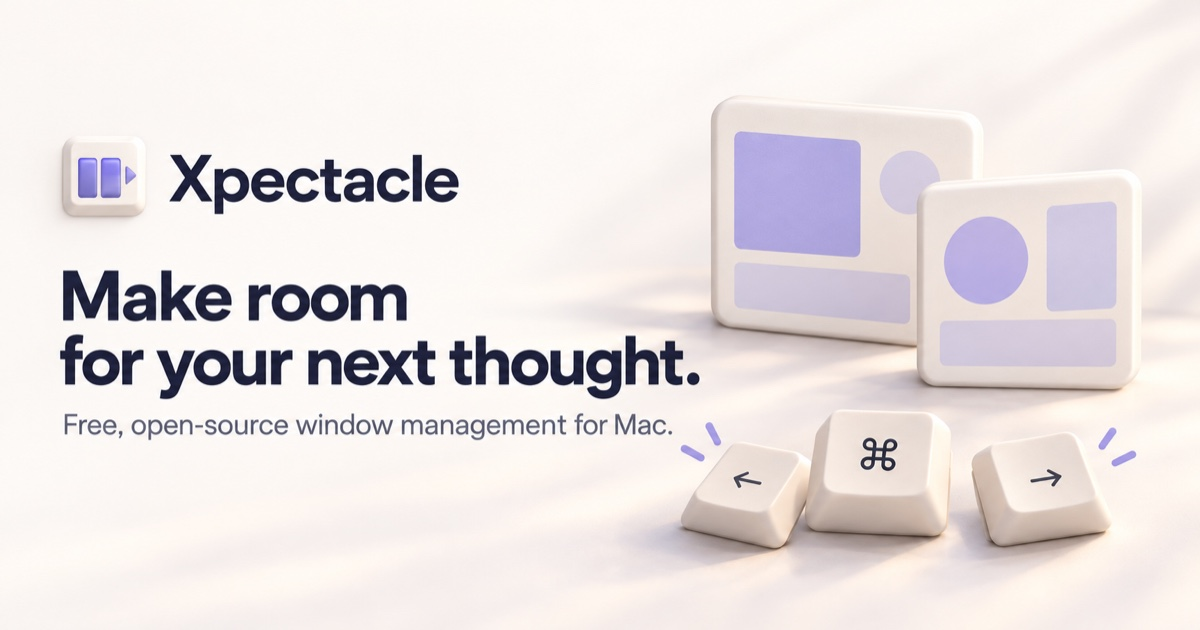
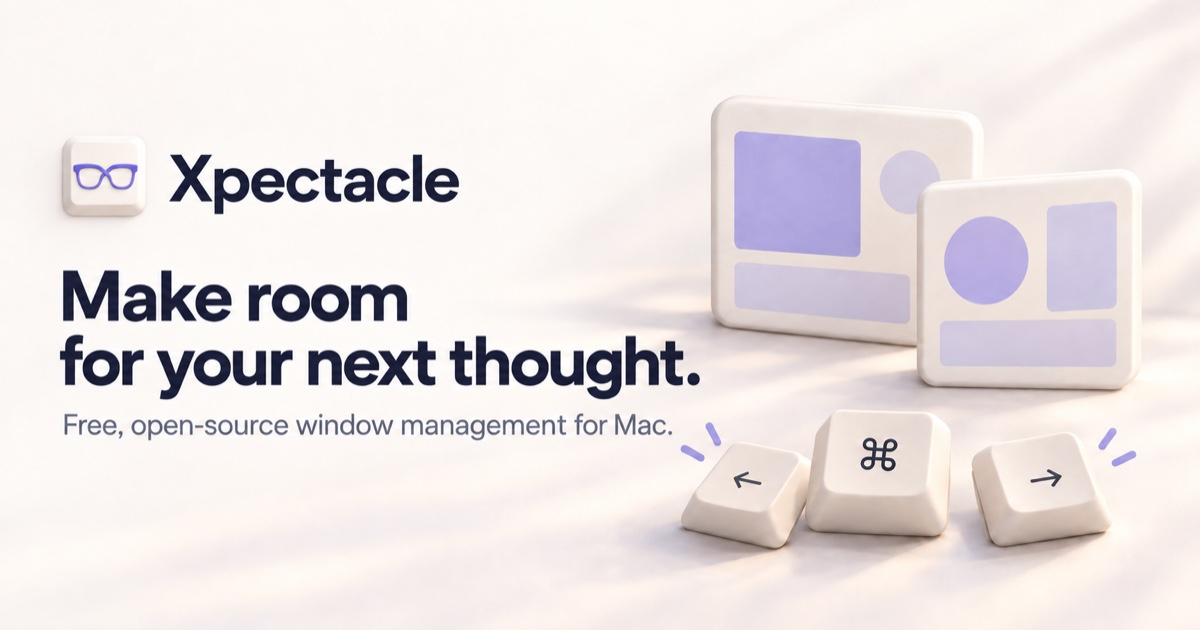
Adopt the X-bridge glasses launch identity

diff --git a/docs/CREDITS.md b/docs/CREDITS.md
@@ -18,7 +18,8 @@ the original author has no obligation to maintain, support, or promote it.
 
 The currently published 2.0.2 app retains Spectacle's app icon. That artwork is
 inherited material, not an original Xpectacle identity. The [website](https://xpectacle.wonkytonks.chatgpt.site) and launch artwork now use
-a separate Xpectacle identity: ivory keycaps, lavender accents, and paired windows.
+a separate Xpectacle identity: lavender glasses with an X-shaped bridge, ivory
+keycaps, and paired windows.
 This generated brand artwork was approved by Diego; it is an illustration, not an
 app screenshot. The new native app icon has not yet shipped.
 
